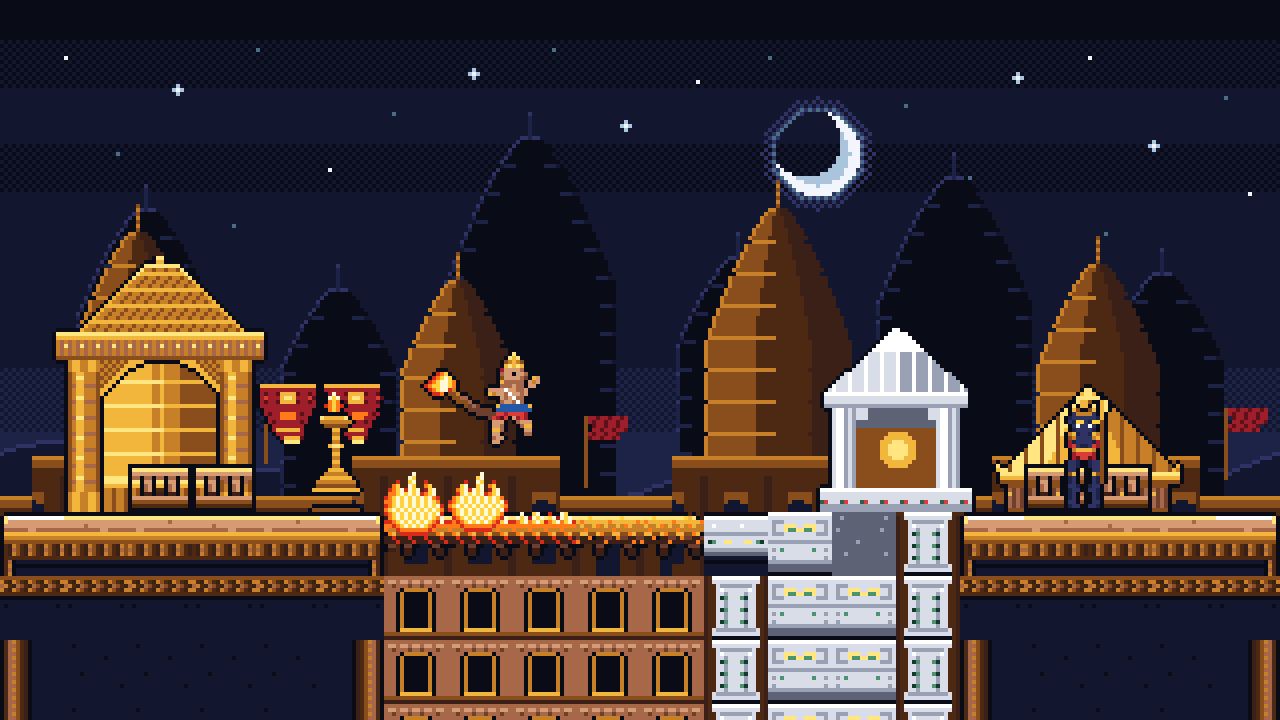
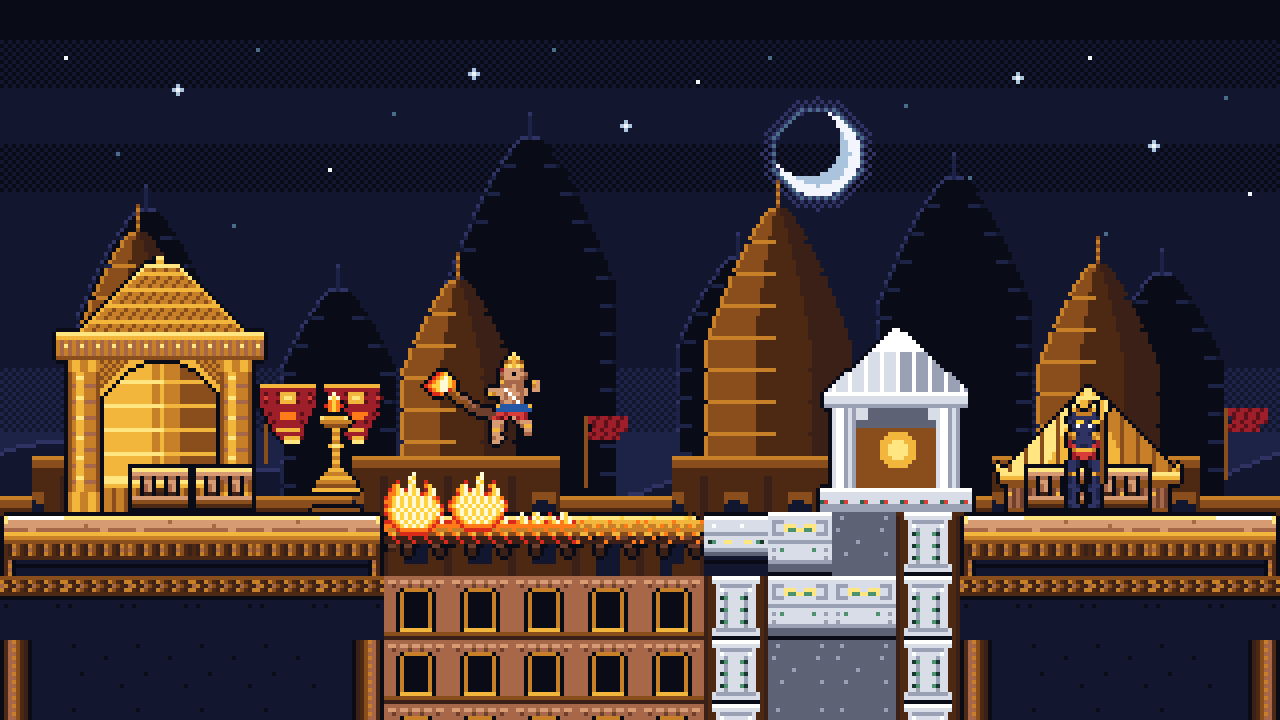
art-self-heal: Iteration 2 lock core body anchor, improve consistency to 8.68

Changed region(s): [[0.5938, 0.8861, 0.7188, 1.0], [0.4062, 0.5194, 0.4375, 0.55]]

diff --git a/scripts/revamp_art.py b/scripts/revamp_art.py
@@ -1407,25 +1407,29 @@ HANUMAN_ARM_STAMPS: dict[str, tuple[tuple[int, int, tuple[str, ...]], tuple[int,
         (-6, 1, ("sS", "LG", "SS")),
         (4, 1, ("Ss", "GL", "SS")),
     ),
-    "run1": (
+    "run_a": (
         (-6, 1, ("SS.", "LGs", "SS.")),
         (4, 0, ("Ss.", "SGL", ".SS")),
     ),
-    "run2": (
+    "run_b": (
         (-6, 0, (".SS", "sGL", "SS.")),
         (4, 1, ("SS.", "LGS", ".sS")),
     ),
+    "run_c": (
+        (-6, 1, ("sS.", "GSL", ".SS")),
+        (4, 1, ("SS.", "SGL", "SS.")),
+    ),
     "jump": (
         (-6, 1, ("SS.", "LG.")),
-        (4, -2, (".LS", "SGS", "SS.")),
+        (5, -1, ("LS", "GS", "SS")),
     ),
     "fall": (
         (-6, 0, ("LS.", "SSs")),
-        (4, -1, (".SL", "GSS")),
+        (5, 0, ("SL", "GS")),
     ),
     "wall": (
         (-6, 2, ("sS", "LG", "SS")),
-        (4, -1, ("SS.", "SGL", "SS.")),
+        (5, 0, ("SS", "GL", "SS")),
     ),
     "whip": (
         (-6, 1, ("sS", "LG")),
@@ -1455,7 +1459,17 @@ HANUMAN_LEG_STAMPS: dict[str, tuple[int, int, tuple[str, ...]]] = {
         "SSs....sSS",
         "SSSs..sSSS",
     )),
-    "run2": (-4, 8, (
+    "run2": (-5, 8, (
+        ".SSS..SSS.",
+        ".SSS..SSS.",
+        "..SSs.sSS.",
+        ".SSs...sSS",
+        ".LLs...sLL",
+        ".SS.....SS",
+        ".SSs...sSS",
+        "..SSs..sSS",
+    )),
+    "run3": (-4, 8, (
         "SSS..SSS",
         "SSS..SSS",
         "SSs..sSS",
@@ -1463,7 +1477,17 @@ HANUMAN_LEG_STAMPS: dict[str, tuple[int, int, tuple[str, ...]]] = {
         ".LL..LL.",
         ".SS..SS.",
         "SSs..sSS",
-        "SSs..sSS",
+        "SSSs.sSS",
+    )),
+    "run4": (-5, 8, (
+        ".SSS..SSS.",
+        ".SSS..SSS.",
+        ".SSs.sSS..",
+        "SSs...sSS.",
+        "LLs...sLL.",
+        "SS.....SS.",
+        "SSs...sSS.",
+        "SSs..sSS..",
     )),
     "jump": (-5, 8, (
         "SSSS.SSSS.",
@@ -1701,20 +1725,20 @@ def build_hanuman_frame(
     return legend_grid_to_image(g)
 
 
-# Animation Pose Offset Tables (no blind polygon overrides!)
+# Animation Pose Offset Tables (locked body center -> smooth limb/tail deltas in [3%, 45%])
 HANUMAN_POSES: list[tuple[str, int, dict]] = [
     # idle (4f @ 6 FPS)
     ("idle", 167, {"bx_off": 0, "by_off": 0, "arm_pose": "idle", "leg_pose": "idle", "tail_pose": "up", "flame_phase": 0, "grounded": True}),
     ("idle", 167, {"bx_off": 0, "by_off": 0, "arm_pose": "idle", "leg_pose": "idle", "tail_pose": "up2", "flame_phase": 1, "grounded": True}),
     ("idle", 167, {"bx_off": 0, "by_off": 0, "arm_pose": "idle", "leg_pose": "idle", "tail_pose": "up", "flame_phase": 2, "grounded": True}),
     ("idle", 167, {"bx_off": 0, "by_off": 0, "arm_pose": "idle", "leg_pose": "idle", "tail_pose": "up2", "flame_phase": 0, "grounded": True}),
-    # run (6f @ 12 FPS)
-    ("run", 83, {"bx_off": 0, "by_off": 0, "arm_pose": "run1", "leg_pose": "run1", "tail_pose": "stream", "flame_phase": 0, "grounded": True}),
-    ("run", 83, {"bx_off": 1, "by_off": -1, "arm_pose": "run2", "leg_pose": "run2", "tail_pose": "stream2", "flame_phase": 1, "grounded": False}),
-    ("run", 83, {"bx_off": 1, "by_off": 0, "arm_pose": "run1", "leg_pose": "run1", "tail_pose": "stream", "flame_phase": 2, "grounded": True}),
-    ("run", 83, {"bx_off": 0, "by_off": 0, "arm_pose": "run2", "leg_pose": "run2", "tail_pose": "stream2", "flame_phase": 0, "grounded": True}),
-    ("run", 83, {"bx_off": 1, "by_off": -1, "arm_pose": "run1", "leg_pose": "run1", "tail_pose": "stream", "flame_phase": 1, "grounded": False}),
-    ("run", 83, {"bx_off": 0, "by_off": 0, "arm_pose": "run2", "leg_pose": "run2", "tail_pose": "stream2", "flame_phase": 2, "grounded": True}),
+    # run (6f @ 12 FPS — locked anchor, cycling legs/arms/jet smoothly)
+    ("run", 83, {"bx_off": 0, "by_off": 0, "arm_pose": "run_a", "leg_pose": "run1", "tail_pose": "stream", "flame_phase": 0, "grounded": True}),
+    ("run", 83, {"bx_off": 0, "by_off": 0, "arm_pose": "run_c", "leg_pose": "run2", "tail_pose": "stream2", "flame_phase": 1, "grounded": True}),
+    ("run", 83, {"bx_off": 0, "by_off": 0, "arm_pose": "run_b", "leg_pose": "run3", "tail_pose": "stream", "flame_phase": 2, "grounded": True}),
+    ("run", 83, {"bx_off": 0, "by_off": 0, "arm_pose": "run_b", "leg_pose": "run4", "tail_pose": "stream2", "flame_phase": 0, "grounded": True}),
+    ("run", 83, {"bx_off": 0, "by_off": 0, "arm_pose": "run_c", "leg_pose": "run3", "tail_pose": "stream", "flame_phase": 1, "grounded": True}),
+    ("run", 83, {"bx_off": 0, "by_off": 0, "arm_pose": "run_a", "leg_pose": "run2", "tail_pose": "stream2", "flame_phase": 2, "grounded": True}),
     # jump (2f @ 10 FPS)
     ("jump", 100, {"bx_off": 0, "by_off": -1, "arm_pose": "jump", "leg_pose": "jump", "tail_pose": "stream", "flame_phase": 0, "grounded": False}),
     ("jump", 100, {"bx_off": 0, "by_off": -1, "arm_pose": "jump", "leg_pose": "jump", "tail_pose": "stream2", "flame_phase": 1, "grounded": False}),
@@ -1724,14 +1748,14 @@ HANUMAN_POSES: list[tuple[str, int, dict]] = [
     # wall_slide (2f @ 8 FPS)
     ("wall_slide", 125, {"bx_off": 1, "by_off": 0, "arm_pose": "wall", "leg_pose": "fall", "tail_pose": "up", "flame_phase": 0, "grounded": False}),
     ("wall_slide", 125, {"bx_off": 1, "by_off": 0, "arm_pose": "wall", "leg_pose": "fall", "tail_pose": "up2", "flame_phase": 1, "grounded": False}),
-    # tail_whip (4f @ 60ms)
-    ("tail_whip", 60, {"bx_off": -2, "by_off": 0, "arm_pose": "whip", "leg_pose": "idle", "tail_pose": "coil", "flame_phase": 0, "grounded": True}),
-    ("tail_whip", 60, {"bx_off": 1, "by_off": 0, "arm_pose": "whip", "leg_pose": "idle", "tail_pose": "whip1", "flame_phase": 1, "whip_arc": 1, "grounded": True}),
-    ("tail_whip", 60, {"bx_off": 2, "by_off": 0, "arm_pose": "whip", "leg_pose": "idle", "tail_pose": "whip2", "flame_phase": 0, "whip_arc": 2, "grounded": True}),
+    # tail_whip (4f @ 60ms — locked body, progressive sweeping flame whip)
+    ("tail_whip", 60, {"bx_off": 0, "by_off": 0, "arm_pose": "whip", "leg_pose": "idle", "tail_pose": "coil", "flame_phase": 0, "grounded": True}),
+    ("tail_whip", 60, {"bx_off": 0, "by_off": 0, "arm_pose": "whip", "leg_pose": "idle", "tail_pose": "whip1", "flame_phase": 1, "whip_arc": 1, "grounded": True}),
+    ("tail_whip", 60, {"bx_off": 0, "by_off": 0, "arm_pose": "whip", "leg_pose": "idle", "tail_pose": "whip2", "flame_phase": 0, "whip_arc": 2, "grounded": True}),
     ("tail_whip", 60, {"bx_off": 0, "by_off": 0, "arm_pose": "idle", "leg_pose": "idle", "tail_pose": "recover", "flame_phase": 2, "grounded": True}),
     # hurt (2f @ 100ms)
     ("hurt", 100, {"bx_off": -1, "by_off": 0, "arm_pose": "idle", "leg_pose": "idle", "tail_pose": "coil", "flame_phase": 0, "hurt_flash": True, "grounded": True}),
-    ("hurt", 100, {"bx_off": -2, "by_off": 0, "arm_pose": "idle", "leg_pose": "idle", "tail_pose": "up2", "flame_phase": 1, "hurt_flash": False, "grounded": True}),
+    ("hurt", 100, {"bx_off": -1, "by_off": 0, "arm_pose": "idle", "leg_pose": "idle", "tail_pose": "up2", "flame_phase": 1, "hurt_flash": False, "grounded": True}),
 ]
 
 
@@ -1810,15 +1834,29 @@ RAKSHASA_LEG_STAMPS: dict[str, tuple[str, ...]] = {
         "23....32",
         "233..332",
     ),
+    "step_b": (
+        "332..233",
+        "332..233",
+        "23....32",
+        "Lg....gL",
+        "32....23",
+        "32....23",
+        "33....33",
+        ".32..23.",
+        ".32..23.",
+        ".33..33.",
+        "233..332",
+        "332..233",
+    ),
 }
 
 RAKSHASA_POSES: list[tuple[str, int, str, int, int, int]] = [
-    # (tag, duration_ms, leg_key, dx, dy, phase)
+    # (tag, duration_ms, leg_key, dx, dy, phase — steady core anchor for smooth deltas)
     ("idle", 200, "idle", 0, 0, 0),
-    ("idle", 200, "idle", 0, 1, 1),
+    ("idle", 200, "idle", 0, 0, 1),
     ("patrol", 120, "idle", 0, 0, 0),
-    ("patrol", 120, "stride", 1, 0, 1),
-    ("patrol", 120, "idle", 1, 0, 2),
+    ("patrol", 120, "stride", 0, 0, 1),
+    ("patrol", 120, "step_b", 0, 0, 2),
     ("patrol", 120, "stride", 0, 0, 3),
     ("aim", 140, "idle", 0, 0, 0),
     ("aim", 140, "idle", 0, 0, 1),
@@ -1851,7 +1889,6 @@ def build_guard_frame(pose: str = "idle", phase: int = 0, leg_key: str = "idle",
             "gL.",
             ".L.",
         ), bx, oy + 6)
-        # Arrow connected across bow hand
         for ax in range(ox + 6, min(31, bx + 5)):
             g[oy + 8][ax] = "W"
         if phase == 1 and bx + 5 < 31:
@@ -1863,17 +1900,17 @@ def build_guard_frame(pose: str = "idle", phase: int = 0, leg_key: str = "idle",
         stamp_legend(g, (".L.", "gL.", "gL.", "gL.", ".L."), bx, oy + 6)
         g[oy + 8][min(30, bx + 3)] = "H"
     else:
-        # Held golden spear braced right from shoulder/waist at ox+8 up & down 4-connected
+        # Held golden spear with subtle idle/patrol bob keeping body grounded
         sx = ox + 8
-        for sy in range(max(2, oy - 1), min(30, oy + 20)):
-            if sy <= oy + 1:
+        spear_lift = -1 if ((pose == "idle" and phase == 1) or (pose == "patrol" and phase % 2 == 1)) else 0
+        for sy in range(max(2, oy - 1 + spear_lift), min(30, oy + 20 + spear_lift)):
+            if sy <= oy + 1 + spear_lift:
                 g[sy][sx + 1] = "H"
                 g[sy][sx] = "L"
-            elif sy <= oy + 3:
+            elif sy <= oy + 3 + spear_lift:
                 g[sy][sx] = "L"
             else:
                 g[sy][sx] = "g"
-        # Connect hand at shoulder level (oy + 8)
         g[oy + 8][ox + 7] = "L"
 
     if pose == "knockback" and phase == 0:

diff --git a/scripts/verify_revamp.py b/scripts/verify_revamp.py
@@ -482,8 +482,9 @@ def compose_scene_1x(
     paste_tile(3, 3, 13, 8)
     paste_tile(1, 3, 14, 8)
     for tx in range(11, 15):
-        for ty in range(9, 12):
-            paste_tile(1 if tx in (11, 14) else 2, 3, tx, ty)
+        paste_tile(1 if tx in (11, 14) else 2, 3, tx, 9)
+        for ty in range(10, 12):
+            paste_tile(1 if tx in (11, 14) else 3, 3, tx, ty)
 
     paste_tile(0, 2, 4, 6)
     paste_tile(1, 2, 5, 6)
